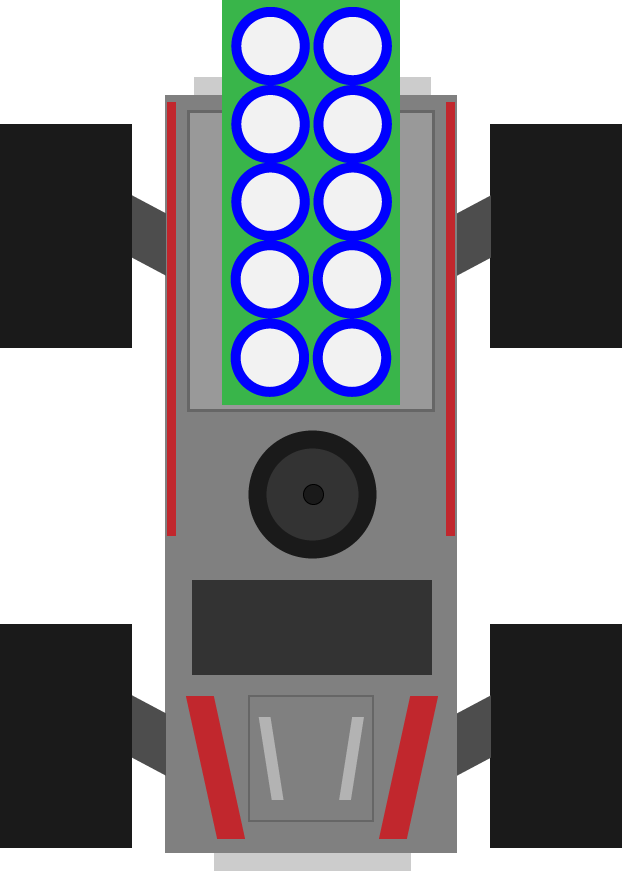
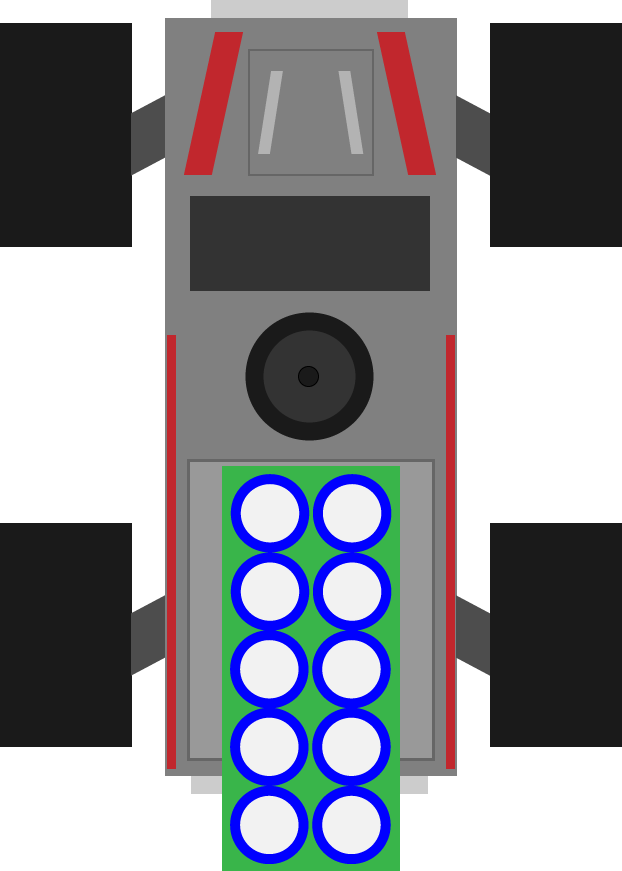
Added rotation to KITT, as well as canvas flip compensation

diff --git a/src/KITT-Drive-dotNET/Overwatch/MainWindow.xaml b/src/KITT-Drive-dotNET/Overwatch/MainWindow.xaml
@@ -32,12 +32,17 @@
 						</ItemsControl.ItemsPanel>
 						<ItemsControl.Resources>
 							<DataTemplate DataType="{x:Type vm:VirtualVehicleViewModel}">
-								<Image Source="{Binding Path=Bitmap}" Width="{Binding Path=Width}" Height="{Binding Path=Height}" IsHitTestVisible="False"/>
+								<Image Source="{Binding Path=Bitmap}" Width="{Binding Path=Width}" Height="{Binding Path=Height}" IsHitTestVisible="False" RenderTransformOrigin="0.5,0.5">
+									<Image.RenderTransform>
+										<TransformGroup>
+											<RotateTransform x:Name="r"  Angle="{Binding Path=Angle}"/>
+											<ScaleTransform x:Name="t" ScaleY="-1"/>
+										</TransformGroup>
+									</Image.RenderTransform>
+								</Image>
 							</DataTemplate>
 							<DataTemplate DataType="{x:Type vm:WaypointViewModel}">
-								<Grid>
-									<Path Stroke="{Binding Path=Stroke}" Fill="{Binding Path=Fill}" Data="{Binding Path=PathData}" StrokeThickness="4"/>
-								</Grid>
+								<Path Stroke="{Binding Path=Stroke}" Fill="{Binding Path=Fill}" Data="{Binding Path=PathData}" StrokeThickness="4"/>
 							</DataTemplate>
 						</ItemsControl.Resources>
 						<ItemsControl.ItemContainerStyle>

diff --git a/src/KITT-Drive-dotNET/Overwatch/ViewModel/VirtualVehicleViewModel.cs b/src/KITT-Drive-dotNET/Overwatch/ViewModel/VirtualVehicleViewModel.cs
@@ -16,6 +16,9 @@ namespace Overwatch.ViewModel
 		//Position
 		public double X { get { return Vehicle.X * Data.CanvasSize - Width / 2; } set { } }
 		public double Y { get { return Vehicle.Y * Data.CanvasSize - Height / 2; } set { } }
+
+		//Rotation
+		public double Angle { get; set; }
 		
 		//Dimensions
 		public double Width { get { return Data.CanvasSize / Data.FieldSize * Vehicle.Width * 5; } }
